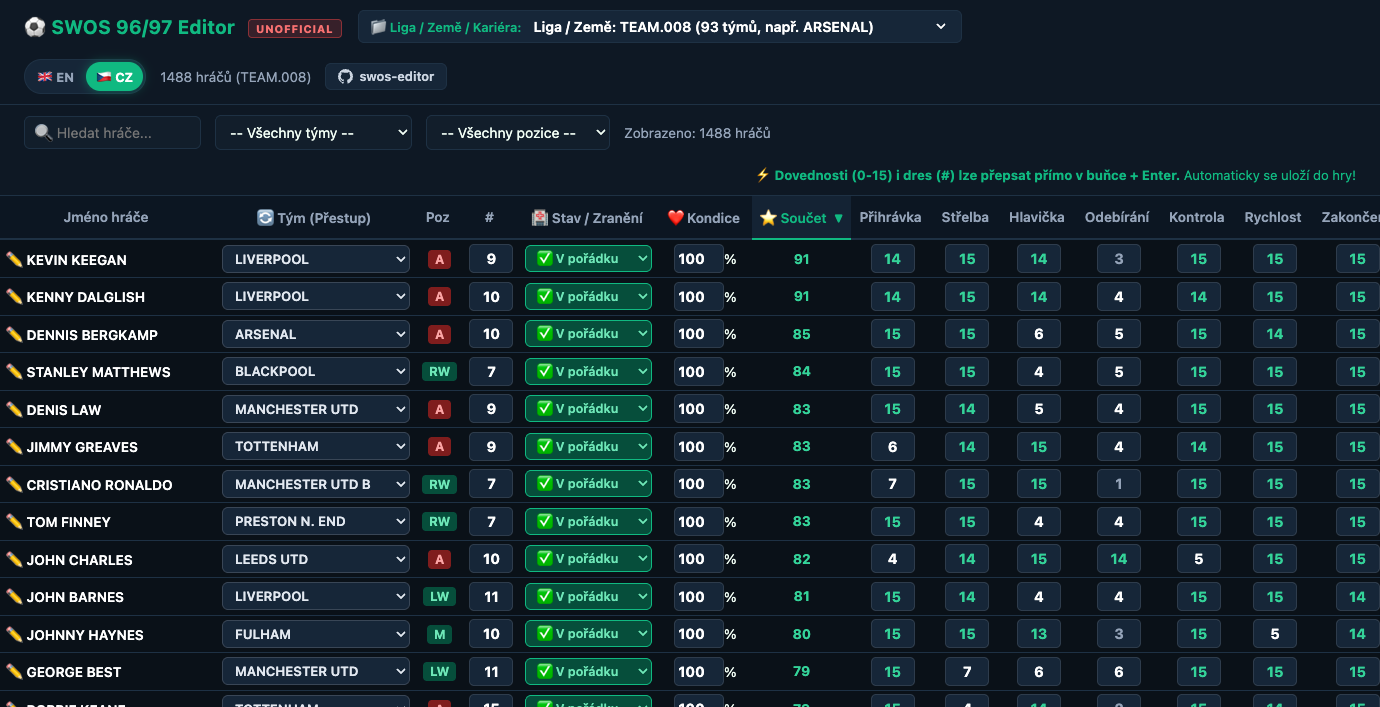
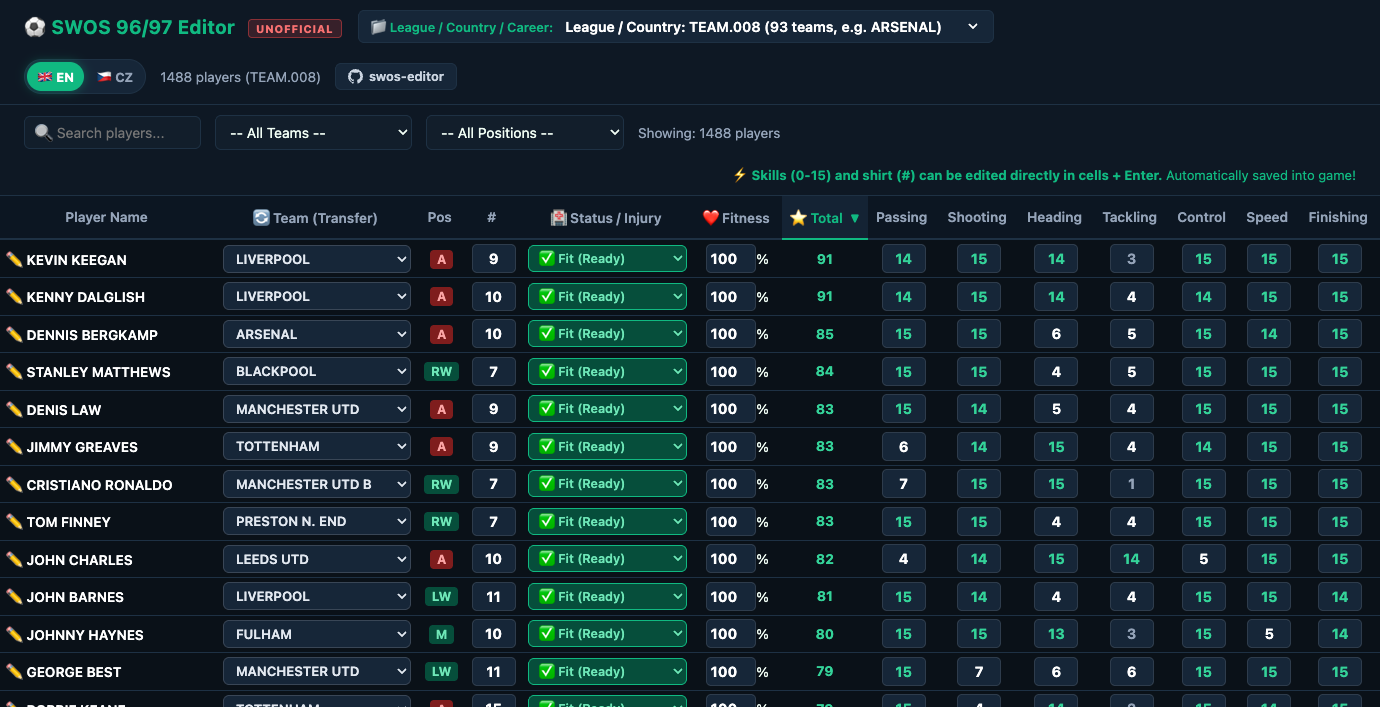
Set English as default language and update README screenshot

diff --git a/swos_editor.py b/swos_editor.py
@@ -505,11 +505,11 @@ def save_player(db_id, player_offset, data):
 
 
 HTML_TEMPLATE = """<!DOCTYPE html>
-<html lang="cs">
+<html lang="en">
 <head>
 <meta charset="UTF-8">
 <meta name="viewport" content="width=device-width, initial-scale=1.0">
-<title>SWOS 96/97 - Editor hráčů a kariér</title>
+<title>SWOS 96/97 - Player & Career Editor</title>
 <style>
   :root {
     --bg-main: #0a1118;
@@ -712,10 +712,10 @@ HTML_TEMPLATE = """<!DOCTYPE html>
   </div>
   <div style="display: flex; align-items: center; gap: 14px;">
     <div class="lang-toggle">
-      <button class="lang-btn" id="lang-btn-en" onclick="setLanguage('en')">🇬🇧 EN</button>
-      <button class="lang-btn active" id="lang-btn-cs" onclick="setLanguage('cs')">🇨🇿 CZ</button>
+      <button class="lang-btn active" id="lang-btn-en" onclick="setLanguage('en')">🇬🇧 EN</button>
+      <button class="lang-btn" id="lang-btn-cs" onclick="setLanguage('cs')">🇨🇿 CZ</button>
     </div>
-    <span id="player-count" style="font-size:0.85rem; color:var(--text-muted);">0 hráčů</span>
+    <span id="player-count" style="font-size:0.85rem; color:var(--text-muted);">0 players</span>
     <a href="https://github.com/LubosKolouch/swos-editor" target="_blank" rel="noopener noreferrer" class="github-link" title="GitHub Repository">
       <svg viewBox="0 0 16 16" aria-hidden="true"><path d="M8 0C3.58 0 0 3.58 0 8c0 3.54 2.29 6.53 5.47 7.59.4.07.55-.17.55-.38 0-.19-.01-.82-.01-1.49-2.01.37-2.53-.49-2.69-.94-.09-.23-.48-.94-.82-1.13-.28-.15-.68-.52-.01-.53.63-.01 1.08.58 1.23.82.72 1.21 1.87.87 2.33.66.07-.52.28-.87.51-1.07-1.78-.2-3.64-.89-3.64-3.95 0-.87.31-1.59.82-2.15-.08-.2-.36-1.02.08-2.12 0 0 .67-.21 2.2.82.64-.18 1.32-.27 2-.27.68 0 1.36.09 2 .27 1.53-1.04 2.2-.82 2.2-.82.44 1.1.16 1.92.08 2.12.51.56.82 1.27.82 2.15 0 3.07-1.87 3.75-3.65 3.95.29.25.54.73.54 1.48 0 1.07-.01 1.93-.01 2.2 0 .21.15.46.55.38A8.013 8.013 0 0016 8c0-4.42-3.58-8-8-8z"></path></svg>
       <span>swos-editor</span>
@@ -829,7 +829,7 @@ let selectedPlayer = null;
 
 let tableSortCol = 'overall';
 let tableSortAsc = false;
-let currentLang = localStorage.getItem('swos_lang') || 'cs';
+let currentLang = localStorage.getItem('swos_lang') || 'en';
 
 const I18N = {
   cs: {
